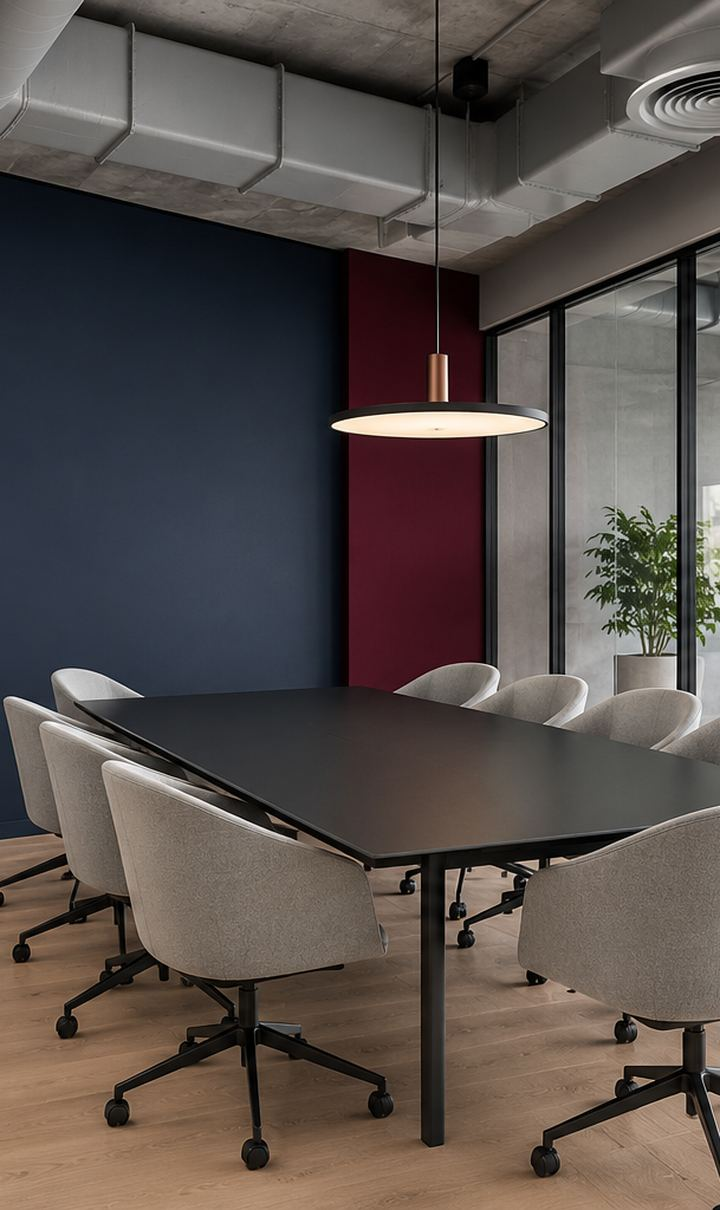
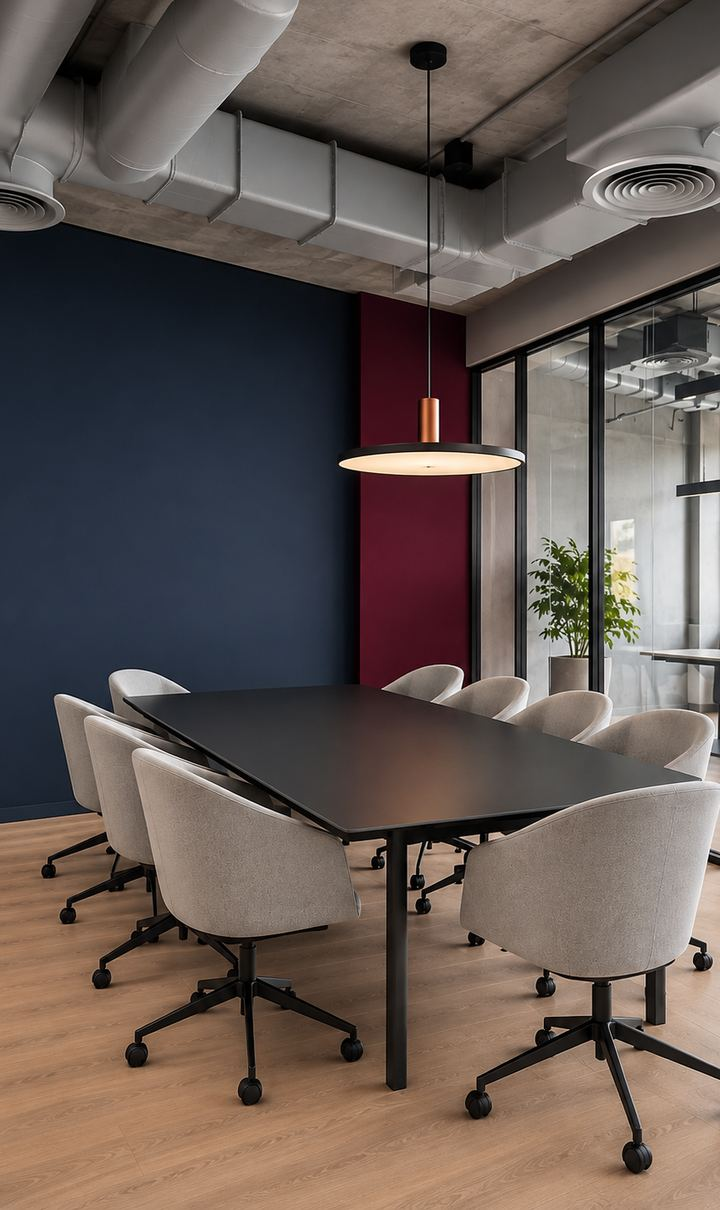
Hero: dedicated portrait image for phones

diff --git a/CLAUDE.md b/CLAUDE.md
@@ -342,6 +342,11 @@ Newest first. One entry per working session or per significant change: what chan
 
 
 
+### 2026-11-18: phone version of the hero image
+- Miguelle supplied a portrait version of the conference room for phones (1086 x 1448; source: `documentation/source-images/backgrounds/hero-conference-room-mobile.png`). It replaces the tall crop of the wide image: `images/backgrounds/hero-m.webp` / `.jpg` (720 x 1210, 50 / 102 KB). Same file names and size, so no HTML or CSS changed.
+- **Correction to the entry below:** it said the room was "barely visible" on phones. That was a fault in the screenshot method (the phone view is captured inside an iframe, and the hero image had not loaded when the picture was taken). A direct capture at 500px wide shows the room clearly behind the text: ducts, lamp, table and chairs. **For the hero, capture the page directly at a narrow window instead of using `shot.py`'s phone view.**
+- Checked: direct screenshot at 500 wide. Not checked: a true 390-wide phone (headless Chrome will not go narrower than about 500), real devices, measured contrast.
+
 ### 2026-11-18: new hero image (conference room); logo block redesigned
 - **Hero image replaced.** Miguelle generated a conference room image to follow her design note 6 (calm, modern conference room, no people): navy wall, a burgundy panel, black table, grey chairs, glass partition. Source: `documentation/source-images/backgrounds/hero-conference-room.png` (1536 x 1024); the previous texture's source was renamed `hero-old-navy-texture.png`. Web files keep the same names, so the HTML and the preload links did not change: `images/backgrounds/hero.webp` / `.jpg` (1536 x 943, 75 / 154 KB) and `hero-m.webp` / `.jpg` (720 x 1210 tall crop around the table, 43 / 94 KB).
   - A **76% navy layer** now sits over the photo (`.hero__bg::after` in `css/styles.css`; the number is commented) so the white text reads everywhere; the soft patch behind the text on tablets and up was lightened to suit. Text stays centred, as Miguelle chose earlier.
